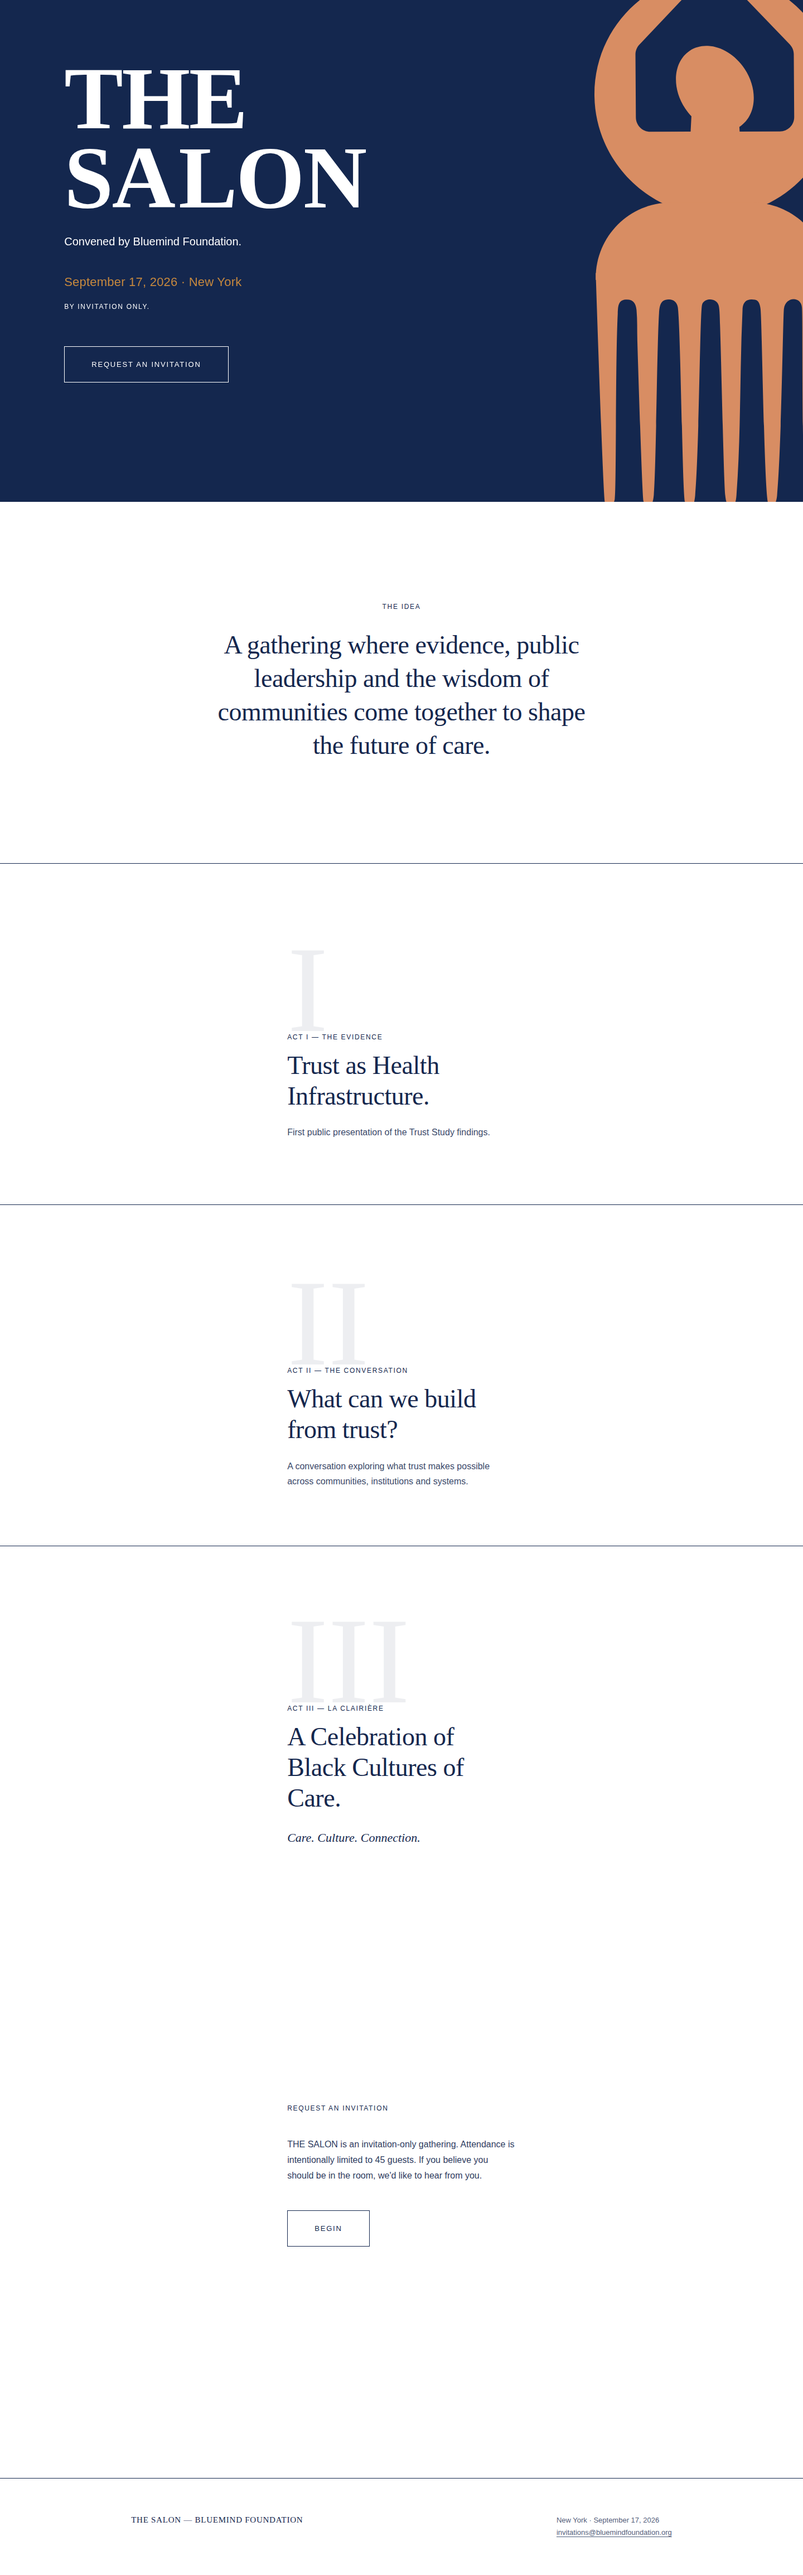
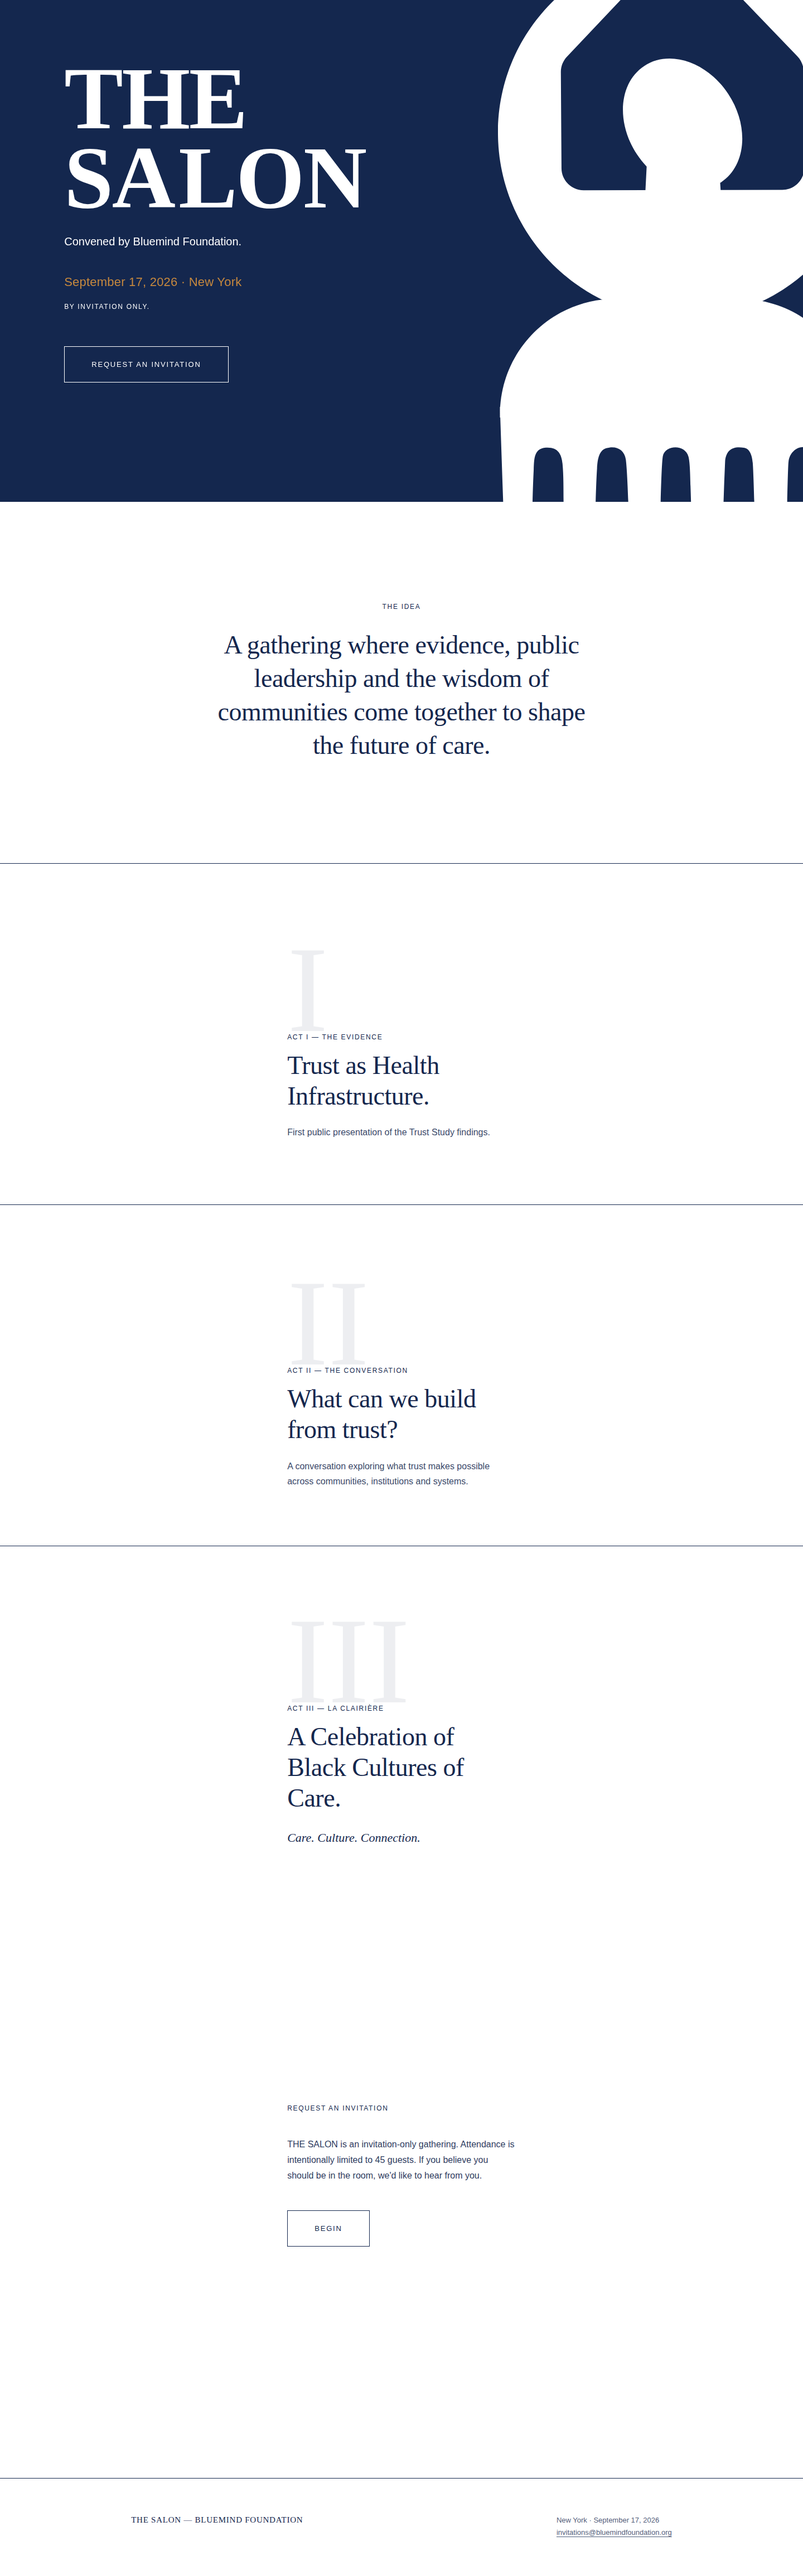
Recolor comb to white, crop it much tighter to match reference visual
Per review: the master visual comb now renders in white (currentColor)
instead of the source file's own terracotta (#d88d63), and is scaled
up substantially with a far more aggressive bleed off the top-right on
desktop and top-right on mobile, so only a fragment of the artwork is
visible within the frame — closer to the earlier reference image's
tighter, more monumental crop.

Fixed a mobile-specific regression from the first size pass: the
larger scale initially overlapped "Convened by Bluemind Foundation.",
resolved by pushing the mobile bleed offset further right (-30vw)
rather than shrinking the artwork back down.

Changed region(s): [[0.5938, 0.0, 1.0, 0.2183]]

diff --git a/landing-page/index.html b/landing-page/index.html
@@ -27,15 +27,16 @@
   <!-- Master visual comb artwork (final, supplied by Landry) — a
        graphic/architectural element bled large across the hero, not a
        logo. Content deliberately minimal: no tagline, no UNGA framing.
-       Colour (#d88d63) is exactly as delivered in the source file, not
-       recoloured to currentColor — see README "The master visual comb". -->
+       Recolored to currentColor (white on this hero) per review — the
+       source file's own fill was #d88d63; see README "The master visual
+       comb" for the color-swap history. -->
   <section class="hero hero-v2" id="top">
     <div class="hero-v2-comb-wrap" aria-hidden="true">
       <svg class="hero-v2-comb" viewBox="0 0 275.75048 607.53936" preserveAspectRatio="xMidYMin meet">
         <g transform="translate(-172.59999,-96.629739)">
-          <path d="m 0,0 -181.692,0.831 c 2.68,-80.882 6.713,-193.855 7.905,-196.636 2.234,-5.217 7.778,-3.06 8.433,2.532 1.414,12.053 0.5,119.237 2.578,159.187 0.271,5.21 -0.091,11.654 6.752,12.11 6.588,0.439 8.828,-3.266 9.371,-9.057 0.784,-8.366 0.415,-17.648 0.683,-26.074 1.289,-40.555 4.216,-133.743 5.297,-137.88 0.784,-3.007 2.92,-4.626 6.144,-3.119 2.037,0.951 2.541,6.365 2.719,8.569 1.964,24.44 2.821,131.156 4.497,156.053 0.254,3.779 0.652,9.858 5.153,11.197 5.535,1.646 10.162,-0.721 10.948,-6.305 2.461,-17.484 3.93,-160.791 6.16,-166.884 1.276,-3.488 6.086,-4.36 7.618,-1.071 0.486,1.042 0.997,4.998 1.111,6.389 3.479,42.15 4.059,154.187 5.85,163.451 1.201,6.204 12.394,6.942 14.363,-0.39 0.886,-3.298 0.975,-12.327 1.113,-16.333 1.31,-37.788 3.203,-136.054 4.5,-146.726 0.261,-2.14 0.693,-7 2.715,-7.947 6.434,-3.012 6.675,4.973 6.981,9.154 3.892,53.088 2.653,106.518 5.206,159.721 0.749,6.085 4.289,8.194 10.541,7.179 3.739,-0.605 4.622,-5.266 4.895,-8.331 1.416,-15.902 3.208,-165.355 6.863,-167.599 5.649,-3.468 6.985,4.165 7.299,7.823 3.874,45.092 5.08,153.878 5.889,160.306 1.323,10.507 14.504,10.986 15.438,1.336 0.916,-9.452 -0.348,-117.107 2.563,-159.78 0.136,-2 0.815,-8.367 2.095,-9.474 4.651,-4.023 7.148,5.187 7.572,8.229 1.735,12.465 6.861,116.972 9.616,190.37 C 17.176,0.831 0.01,0.282 0,0" style="fill:#d88d63;fill-opacity:1;fill-rule:nonzero;stroke:none" transform="matrix(1.3333333,0,0,-1.3333333,416.32267,439.02147)"/>
-          <path d="M 0,0 C -1.927,0.236 -3.085,-2.085 -1.732,-3.488 L 52.286,-59.58 c 2.225,-2.303 3.464,-5.373 3.485,-8.56 l 0.354,-53.851 c 0.045,-6.843 -5.445,-12.394 -12.269,-12.408 l -34.566,-0.073 -0.254,4.021 c 0.159,0.103 0.329,0.195 0.499,0.309 14.112,9.352 15.915,31.495 4.028,49.473 -11.887,17.979 -32.976,24.972 -47.087,15.621 -14.112,-9.351 -15.915,-31.506 -4.028,-49.473 1.646,-2.498 3.483,-4.768 5.434,-6.82 l -0.677,-13.218 -34.566,-0.073 c -6.824,-0.014 -12.397,5.515 -12.442,12.358 l -0.354,53.85 c -0.02,3.187 1.19,6.263 3.385,8.575 l 53.269,56.315 c 1.335,1.409 0.157,3.725 -1.766,3.481 -51.443,-6.39 -90.971,-50.716 -90.085,-104.166 0.955,-56.957 48.254,-103.032 105.054,-102.377 56.654,0.644 102.115,46.947 101.742,103.882 C 91.094,-49.743 51.183,-6.142 0,0" style="fill:#d88d63;fill-opacity:1;fill-rule:nonzero;stroke:none" transform="matrix(1.3333333,0,0,-1.3333333,326.4248,96.652)"/>
-          <path d="m 0,0 h -198.867 v 1.686 c 0,35.728 28.962,64.691 64.69,64.691 H -64.69 C -28.963,66.377 0,37.414 0,1.686 Z" style="fill:#d88d63;fill-opacity:1;fill-rule:nonzero;stroke:none" transform="matrix(1.3333333,0,0,-1.3333333,439.22387,445.75067)"/>
+          <path d="m 0,0 -181.692,0.831 c 2.68,-80.882 6.713,-193.855 7.905,-196.636 2.234,-5.217 7.778,-3.06 8.433,2.532 1.414,12.053 0.5,119.237 2.578,159.187 0.271,5.21 -0.091,11.654 6.752,12.11 6.588,0.439 8.828,-3.266 9.371,-9.057 0.784,-8.366 0.415,-17.648 0.683,-26.074 1.289,-40.555 4.216,-133.743 5.297,-137.88 0.784,-3.007 2.92,-4.626 6.144,-3.119 2.037,0.951 2.541,6.365 2.719,8.569 1.964,24.44 2.821,131.156 4.497,156.053 0.254,3.779 0.652,9.858 5.153,11.197 5.535,1.646 10.162,-0.721 10.948,-6.305 2.461,-17.484 3.93,-160.791 6.16,-166.884 1.276,-3.488 6.086,-4.36 7.618,-1.071 0.486,1.042 0.997,4.998 1.111,6.389 3.479,42.15 4.059,154.187 5.85,163.451 1.201,6.204 12.394,6.942 14.363,-0.39 0.886,-3.298 0.975,-12.327 1.113,-16.333 1.31,-37.788 3.203,-136.054 4.5,-146.726 0.261,-2.14 0.693,-7 2.715,-7.947 6.434,-3.012 6.675,4.973 6.981,9.154 3.892,53.088 2.653,106.518 5.206,159.721 0.749,6.085 4.289,8.194 10.541,7.179 3.739,-0.605 4.622,-5.266 4.895,-8.331 1.416,-15.902 3.208,-165.355 6.863,-167.599 5.649,-3.468 6.985,4.165 7.299,7.823 3.874,45.092 5.08,153.878 5.889,160.306 1.323,10.507 14.504,10.986 15.438,1.336 0.916,-9.452 -0.348,-117.107 2.563,-159.78 0.136,-2 0.815,-8.367 2.095,-9.474 4.651,-4.023 7.148,5.187 7.572,8.229 1.735,12.465 6.861,116.972 9.616,190.37 C 17.176,0.831 0.01,0.282 0,0" style="fill:currentColor;fill-opacity:1;fill-rule:nonzero;stroke:none" transform="matrix(1.3333333,0,0,-1.3333333,416.32267,439.02147)"/>
+          <path d="M 0,0 C -1.927,0.236 -3.085,-2.085 -1.732,-3.488 L 52.286,-59.58 c 2.225,-2.303 3.464,-5.373 3.485,-8.56 l 0.354,-53.851 c 0.045,-6.843 -5.445,-12.394 -12.269,-12.408 l -34.566,-0.073 -0.254,4.021 c 0.159,0.103 0.329,0.195 0.499,0.309 14.112,9.352 15.915,31.495 4.028,49.473 -11.887,17.979 -32.976,24.972 -47.087,15.621 -14.112,-9.351 -15.915,-31.506 -4.028,-49.473 1.646,-2.498 3.483,-4.768 5.434,-6.82 l -0.677,-13.218 -34.566,-0.073 c -6.824,-0.014 -12.397,5.515 -12.442,12.358 l -0.354,53.85 c -0.02,3.187 1.19,6.263 3.385,8.575 l 53.269,56.315 c 1.335,1.409 0.157,3.725 -1.766,3.481 -51.443,-6.39 -90.971,-50.716 -90.085,-104.166 0.955,-56.957 48.254,-103.032 105.054,-102.377 56.654,0.644 102.115,46.947 101.742,103.882 C 91.094,-49.743 51.183,-6.142 0,0" style="fill:currentColor;fill-opacity:1;fill-rule:nonzero;stroke:none" transform="matrix(1.3333333,0,0,-1.3333333,326.4248,96.652)"/>
+          <path d="m 0,0 h -198.867 v 1.686 c 0,35.728 28.962,64.691 64.69,64.691 H -64.69 C -28.963,66.377 0,37.414 0,1.686 Z" style="fill:currentColor;fill-opacity:1;fill-rule:nonzero;stroke:none" transform="matrix(1.3333333,0,0,-1.3333333,439.22387,445.75067)"/>
         </g>
       </svg>
     </div>

diff --git a/landing-page/styles.css b/landing-page/styles.css
@@ -172,10 +172,11 @@ section {
    not by cropping inside the SVG. */
 .hero-v2-comb-wrap {
   position: absolute;
-  top: -4vh;
-  right: -10vw;
-  width: 58vw;
+  top: -6vh;
+  right: -30vw;
+  width: 64vw;
   aspect-ratio: 275.75048 / 607.53936;
+  color: var(--color-white);
   pointer-events: none;
 }
 
@@ -719,9 +720,9 @@ footer {
   }
 
   .hero-v2-comb-wrap {
-    top: -5vh;
-    right: -4vw;
-    width: 30vw;
+    top: -10vh;
+    right: -8vw;
+    width: 46vw;
     bottom: auto;
     left: auto;
   }

diff --git a/landing-page/README.md b/landing-page/README.md
@@ -75,24 +75,32 @@ subtracted from its corner) that was used before this artwork arrived —
 if you see any reference to a "hollow" or "rectangle minus a circle" left
 over anywhere, it's stale from that earlier pass.
 
-**Its fill, `#d88d63` (a warm terracotta), is preserved exactly as
-delivered in the source file — not recoloured to `currentColor` or
-white.** This was a deliberate choice: the file's `style="fill:#d88d63"`
-on every path reads as an intentional designer decision, not a
-placeholder color, so it wasn't overridden. If Bluemind wants it in a
-different color, change the three `fill:#d88d63` occurrences in
-`index.html`.
+**Color**: the source file's own fill is `#d88d63` (a warm terracotta).
+The first pass on this page preserved that exact color, on the reasoning
+that it read as a deliberate designer choice. The following round of
+review asked for it in white instead, to match the earlier reference
+visual — so all three `<path>` elements now use `style="fill:currentColor…"`
+and `.hero-v2-comb-wrap { color: var(--color-white) }` sets it. If a
+future review wants the terracotta back (or any other color), it's the
+same three `fill:` occurrences in `index.html` plus the one `color` line
+in `styles.css`.
 
-**Sizing**: `.hero-v2-comb-wrap` uses `aspect-ratio: 275.75048 /
+**Sizing and crop**: `.hero-v2-comb-wrap` uses `aspect-ratio: 275.75048 /
 607.53936` (the artwork's own proportions from its `viewBox`) plus a
 `width`, rather than an independent `width` + `height` box — this
 guarantees the real artwork is never stretched or arbitrarily cropped
-internally (the SVG itself uses `preserveAspectRatio="xMidYMin meet"`, so
-it always renders whole and undistorted inside its box). All the "bleed
-off the edge" effect comes from *positioning* that box partly outside the
-hero via negative `top`/`right`, not from cropping inside the SVG —
-different `top`/`right`/`width` values for mobile (base rules) vs.
-`≥900px` (desktop override).
+*internally* (the SVG itself uses `preserveAspectRatio="xMidYMin meet"`,
+so it always renders whole and undistorted inside its box). All the
+"bleed off the edge" / monumental-crop effect comes from *positioning*
+that box mostly outside the hero via negative `top`/`right` — per review,
+this is now a much larger, tighter crop than the first integration pass
+(only a fragment of the artwork is visible within the frame, matching the
+reference visual), with separate tuned `top`/`right`/`width` values for
+mobile (base rules) vs. `≥900px` (desktop override). On mobile
+specifically, `right` has to stay pushed far enough out (`-30vw`) that the
+oversized shape doesn't visually collide with "Convened by Bluemind
+Foundation." to its left — if you make it larger still, check that
+overlap doesn't come back.
 
 **Do not give `.hero-v2-comb-wrap` both `inset` and an explicit
 `width`/`height` in the same rule** if you touch this again — `inset` sets
